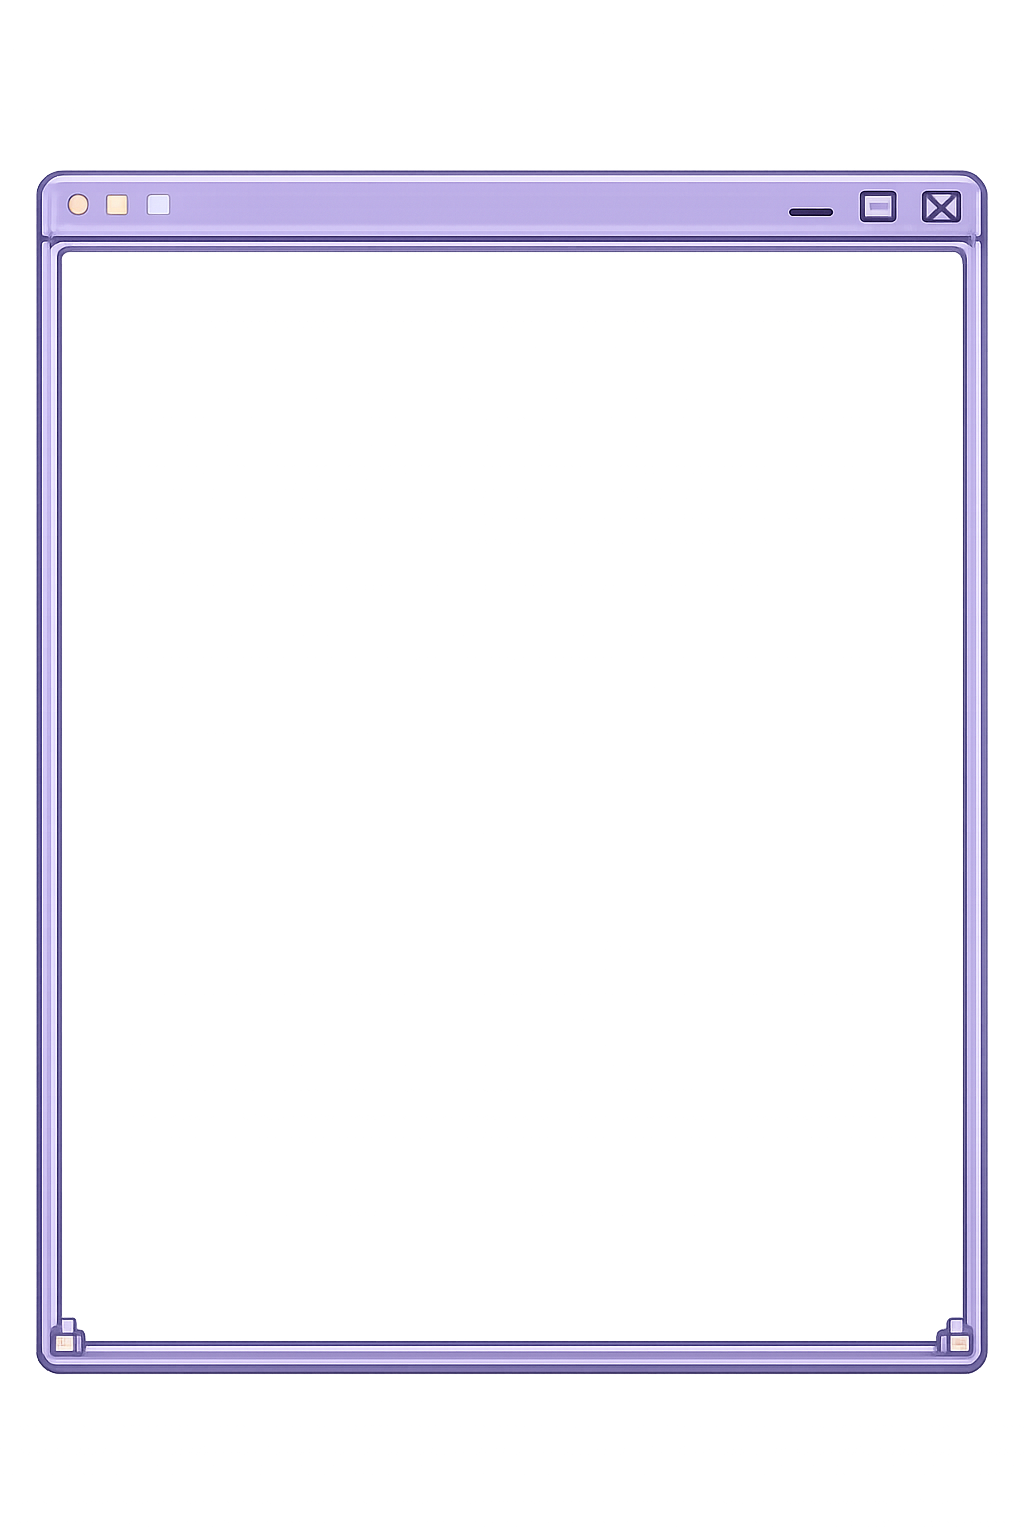
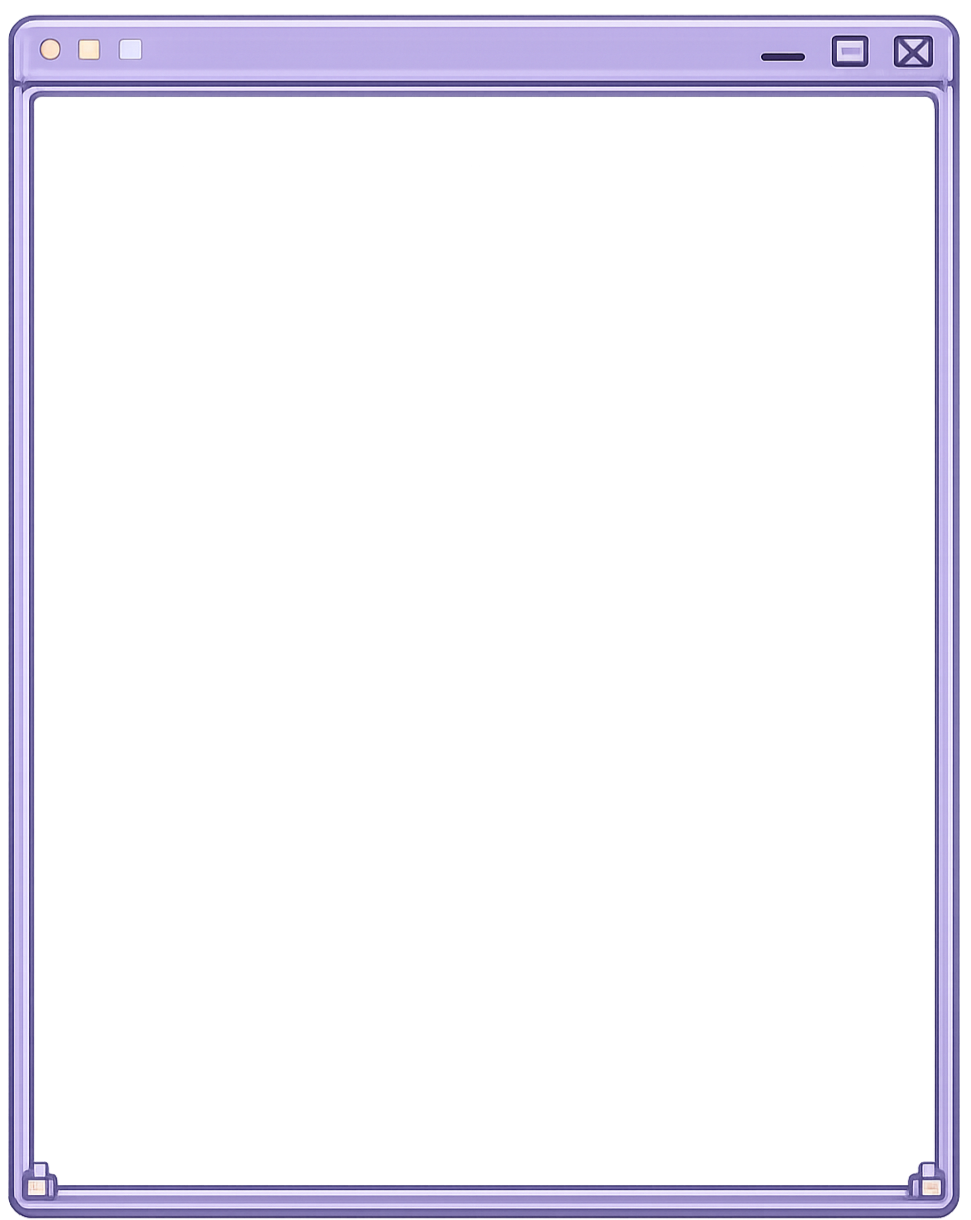
Contact and Footer

Changed region(s): [[0.0, 0.0, 0.9887, 1.0]]

diff --git a/src/components/Contact/Contact.tsx b/src/components/Contact/Contact.tsx
@@ -17,7 +17,7 @@ export default function Contact() {
 
       <div className="contact__content">
         <div className="contact__form-wrapper">
-          <img className="contact__frame" src={frame} alt="" />
+          <img className="contact__frame" src={frame} alt="" aria-hidden="true" />
           <form className="contact__form">
             <div className="contact__form-content">
               <label>
@@ -46,11 +46,45 @@ export default function Contact() {
         <h3>Find me here</h3>
 
         <div className="contact__links">
-          <a href="#">Github</a>
+          <a
+            href="https://github.com"
+            target="_blank"
+            rel="noopener noreferrer"
+            aria-label="GitHub"
+          >
+            <img
+              src="https://cdn.jsdelivr.net/gh/devicons/devicon@latest/icons/github/github-original.svg"
+              alt=""
+              aria-hidden="true"
+            />
+          </a>
 
-          <a href="#">Telega</a>
+          <a
+            href="https://t.me"
+            target="_blank"
+            rel="noopener noreferrer"
+            aria-label="Telegram"
+          >
+            <img
+              src="https://cdn.jsdelivr.net/gh/devicons/devicon@latest/icons/telegram/telegram-original.svg"
+              alt=""
+              aria-hidden="true"
+            />
+          </a>
 
-          <a href="#">HH.RU</a>
+          <a
+            href="https://hh.ru"
+            target="_blank"
+            rel="noopener noreferrer"
+            aria-label="HH.ru"
+          >
+            <svg viewBox="0 0 32 32" xmlns="http://www.w3.org/2000/svg" aria-hidden="true">
+              <circle cx="16" cy="16" r="14" fill="#d6001c" />
+              <rect x="9" y="10" width="3.2" height="12" rx="1" fill="#fff" />
+              <rect x="19.8" y="10" width="3.2" height="12" rx="1" fill="#fff" />
+              <rect x="12.2" y="14.4" width="7.6" height="3.2" rx="1" fill="#fff" />
+            </svg>
+          </a>
         </div>
       </div>
     </section>

diff --git a/src/components/Footer/Footer.scss b/src/components/Footer/Footer.scss
@@ -1,0 +1,101 @@
+@use "@styles/variables" as *;
+
+.footer {
+
+  &__bar {
+    min-height: 58px;
+    display: flex;
+    align-items: center;
+    justify-content: space-between;
+    gap: 16px;
+    padding: 12px 20px;
+    border-radius: 4px;
+    border: 1px solid #4f4b7a;
+    background: linear-gradient(180deg, #3d3a66 0%, #2f2d59 100%);
+    color: #f5f2ff;
+    box-shadow: 0 2px 10px rgb(32 29 68 / 20%);
+  }
+
+  &__text {
+    margin: 0;
+    display: flex;
+    align-items: center;
+    gap: 10px;
+    font-family: $font-primary;
+    font-size: clamp(0.78rem, 0.92vw, 1rem);
+    white-space: nowrap;
+  }
+
+  &__brand {
+    font-weight: 700;
+  }
+
+  &__divider {
+    color: #bfb8e4;
+  }
+
+  &__meta {
+    display: inline-flex;
+    align-items: center;
+    gap: 10px;
+    font-size: clamp(0.84rem, 0.9vw, 1rem);
+    white-space: nowrap;
+  }
+
+  &__code {
+    color: #cfc9ef;
+    font-weight: 700;
+  }
+
+  &__battery {
+    position: relative;
+    width: 28px;
+    height: 12px;
+    border: 1.5px solid #b9f2cf;
+    border-radius: 2px;
+    display: inline-flex;
+    align-items: center;
+    padding: 1.5px;
+
+    &::after {
+      content: "";
+      position: absolute;
+      right: -4px;
+      top: 3px;
+      width: 2px;
+      height: 4px;
+      border-radius: 1px;
+      background: #b9f2cf;
+    }
+  }
+
+  &__battery-fill {
+    width: 100%;
+    height: 100%;
+    border-radius: 1px;
+    background: linear-gradient(90deg, #7dd8a6 0%, #aef3c9 100%);
+  }
+
+  &__hearts {
+    display: inline-flex;
+    gap: 3px;
+    color: #ff7ea8;
+    font-size: clamp(0.82rem, 0.88vw, 0.95rem);
+    line-height: 1;
+  }
+}
+
+@media (max-width: 900px) {
+  .footer {
+    &__bar {
+      flex-direction: column;
+      align-items: flex-start;
+    }
+
+    &__text {
+      white-space: normal;
+      gap: 8px;
+      flex-wrap: wrap;
+    }
+  }
+}

diff --git a/src/components/Contact/Contact.scss b/src/components/Contact/Contact.scss
@@ -52,20 +52,16 @@
     &__frame {
         display: block;
         width: 100%;
-        height: auto;
+        max-height: 660px;
     }
 
     &__form {
         position: absolute;
-        inset: 0;
-        display: flex;
-        flex-direction: column;
-        gap: 22px;
-        padding:
-            100px // top
-            56px // right
-            60px // bottom
-            56px; // left
+        top: 50%;
+        left: 50%;
+        transform: translate(-50%, -50%);
+        width: 450px;
+        gap: 10px;
 
         label {
             display: flex;
@@ -108,6 +104,7 @@
         display: flex;
         flex-direction: column;
         gap: 20px;
+        padding-top: 50px;
 
         h3 {
             margin: 0;
@@ -136,6 +133,7 @@
                 border-color: #8f73ff;
             }
 
+            img,
             svg {
                 width: 28px;
                 height: 28px;

diff --git a/src/components/Footer/Footer.tsx b/src/components/Footer/Footer.tsx
@@ -1,0 +1,30 @@
+import "./Footer.scss";
+
+export default function Footer() {
+  return (
+    <footer className="footer">
+      <div className="footer__bar">
+        <p className="footer__text">
+          <span className="footer__brand">© 2026 SamHeatfield</span>
+          <span className="footer__divider">//</span>
+          <span>Let&apos;s build something amazing together</span>
+          <span aria-hidden="true">🚀</span>
+        </p>
+
+        <div className="footer__meta" aria-hidden="true">
+          <span className="footer__code">&lt;/&gt;</span>
+
+          <span className="footer__battery">
+            <span className="footer__battery-fill" />
+          </span>
+
+          <span className="footer__hearts">
+            <span>❤</span>
+            <span>❤</span>
+            <span>❤</span>
+          </span>
+        </div>
+      </div>
+    </footer>
+  );
+}

diff --git a/src/App.tsx b/src/App.tsx
@@ -1,6 +1,7 @@
 import './App.scss'
 import About from './components/About/About'
 import Contact from './components/Contact/Contact'
+import Footer from './components/Footer/Footer'
 import Hero from './components/Hero/Hero'
 import Header from './components/Header/Header'
 import Projects from './components/Projects/Projects'
@@ -16,6 +17,7 @@ function App() {
       <Projects />
       <Skills />
       <Contact />
+      <Footer />
     </>
   )
 }

diff --git a/src/components/Header/Header.tsx b/src/components/Header/Header.tsx
@@ -7,8 +7,8 @@ export default function Header() {
             <nav className="header__nav">
                 <a href="#home">_home</a>
                 <a href="#about">about</a>
-                <a href="#skills">skills</a>
                 <a href="#projects">projects</a>
+                <a href="#skills">skills</a>
                 <a href="#contact">contact</a>
              </nav>
         </div>

diff --git a/index.html b/index.html
@@ -4,7 +4,7 @@
     <meta charset="UTF-8" />
     <link rel="icon" type="image/svg+xml" href="/favicon.svg" />
     <meta name="viewport" content="width=device-width, initial-scale=1.0" />
-    <title>my-app</title>
+    <title>Sam Heatfield</title>
   </head>
   <body>
     <div id="root"></div>

diff --git a/src/components/Skills/Skills.tsx b/src/components/Skills/Skills.tsx
@@ -112,7 +112,7 @@ function SkillsRow({
 
 export default function Skills() {
   return (
-    <section className="skills">
+    <section className="skills" id="skills">
       <header className="skills__header">
         <img className="skills__header-icon" src={Stack} alt="" />
         <div>

diff --git a/src/components/About/About.tsx b/src/components/About/About.tsx
@@ -8,7 +8,7 @@ import "./About.scss";
 
 export default function About() {
   return (
-    <section className="about">
+    <section className="about" id="about">
       <div className="about__image-wrap">
         <img src={aboutImage} alt="About Me" className="about__image" />
       </div>

diff --git a/src/components/Hero/Hero.tsx b/src/components/Hero/Hero.tsx
@@ -45,7 +45,7 @@ const decorations = [
 export default function Hero() {
   return (
     <>
-      <div className="hero">
+      <div className="hero" id="home">
         <div className="hero__background">
           {decorations.map((item, index) => (
             <span

diff --git a/src/App.scss b/src/App.scss
@@ -8,6 +8,7 @@
 
 html {
   box-sizing: border-box;
+  scroll-behavior: smooth;
 }
 
 button,
